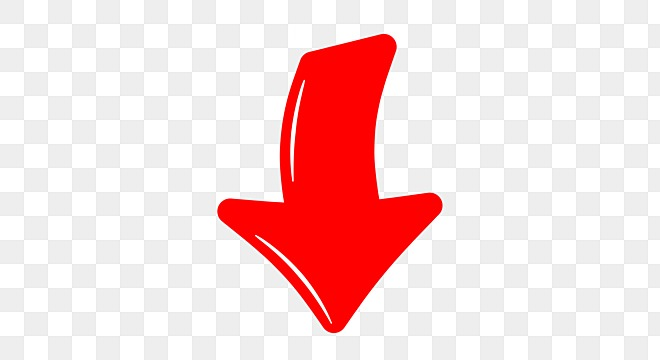
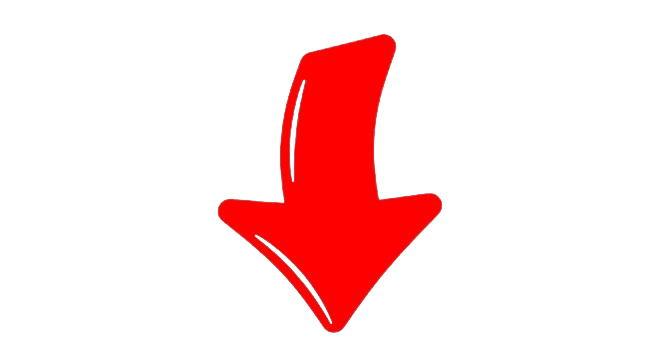
Red arrow added if the trophies lower than the all time highest

diff --git a/src/Home.tsx b/src/Home.tsx
@@ -34,8 +34,6 @@ function Home() {
     trophies: playerInfo.trophies,
     "3vs3Victories": playerInfo["3vs3Victories"],
     icon: playerInfo.icon,
-    expLevel: playerInfo.expLevel,
-    expPoints: playerInfo.expPoints,
     soloVictories: playerInfo.soloVictories,
     duoVictories: playerInfo.duoVictories,
   };
@@ -167,6 +165,15 @@ function Home() {
                       {Object.entries(my_Data).map(([key, value]) => (
                         <li key={key}>
                           <strong>{key}: </strong> {value.toString()}
+                          {key === "highestTrophies" &&
+                            playerInfo.highestTrophies >
+                              playerInfo.trophies && (
+                              <img
+                                className="w-10 h-5 inline"
+                                src="/assets/red_arrow.png"
+                                alt="red_arrow"
+                              />
+                            )}
                         </li>
                       ))}
                     </ul>
